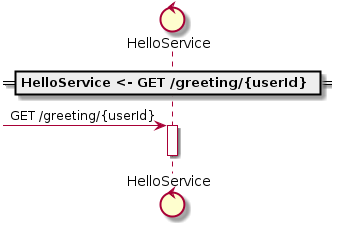
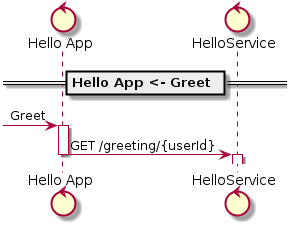
Update sequence diagram in tutorial to make the right call

diff --git a/docs/tutorial.md b/docs/tutorial.md
@@ -108,10 +108,10 @@ HelloService:
 
 Hello App:
     Greet:
-        HelloService <- GetGreeting
+        HelloService <- GET /greeting/{userId}
 ```
 
-We've added a new `Hello App` application with a `Greet` endpoint, and specified its behaviour. The behaviour says that `Greet` does one thing: it sends a request to `HelloService`, invoking the `GetGreeting` endpoint.
+We've added a new `Hello App` application with a `Greet` endpoint, and specified its behaviour. The behaviour says that `Greet` does one thing: it sends a request to `HelloService`, invoking the `GET /greeting/{userId}` endpoint (the `app <- endpoint` operator can be read like "`app` receives call to `endpoint`").
 
 :::note
 At this level of detail, we're not interested in specifically what happens to the result of the call. However Sysl has a special grammar for specifying more detailed behaviour as transformations.
@@ -119,25 +119,19 @@ At this level of detail, we're not interested in specifically what happens to th
 
 Now that our system has some communication happening, we can generate some useful output. **Diagrams** are the most common representation of Sysl specifications, since they are visual, rich, standard, and easily shared.
 
-Let's create a **sequence diagram** illustrating the communication:
+Let's create a **sequence diagram** illustrating the communication. Sequence diagram generation requires an interaction (i.e. an endpoint invocation) to draw, so we'll use `Hello App <- Greet` 
 
 ```bash
-sysl sd --endpoint=Greet hello.sysl
+sysl sd --endpoint="Hello App <- Greet" hello.sysl
 ```
 
 This produces the diagram below:
 
 ![Sequence diagram of the Greet endpoint](../examples/tutorial/out/3_hello_communication_sd.png)
 
-This shows the `GetGreeting` request to `HelloService`, but wait, where is `Hello App`?
+This shows `Hello App` sending a `GET /greeting/{userId}` request to `HelloService`. Great!
 
-TODO(ladeo): Great question.
-
-This requires brief detour into **projects**.
-
-:::note
-This is probably a bug, and the CLI will be improved in the future so projects are not required consistently. 
-:::
+However it's a bit clunky to have to spell out the full endpoint name for every diagram that we want to generate. Sure, you could write a script with multiple calls, but that would grow stale as the spec evolves. To keep it all in the Sysl universe, we have the concept of a **project**.
 
 
 ## Projects
